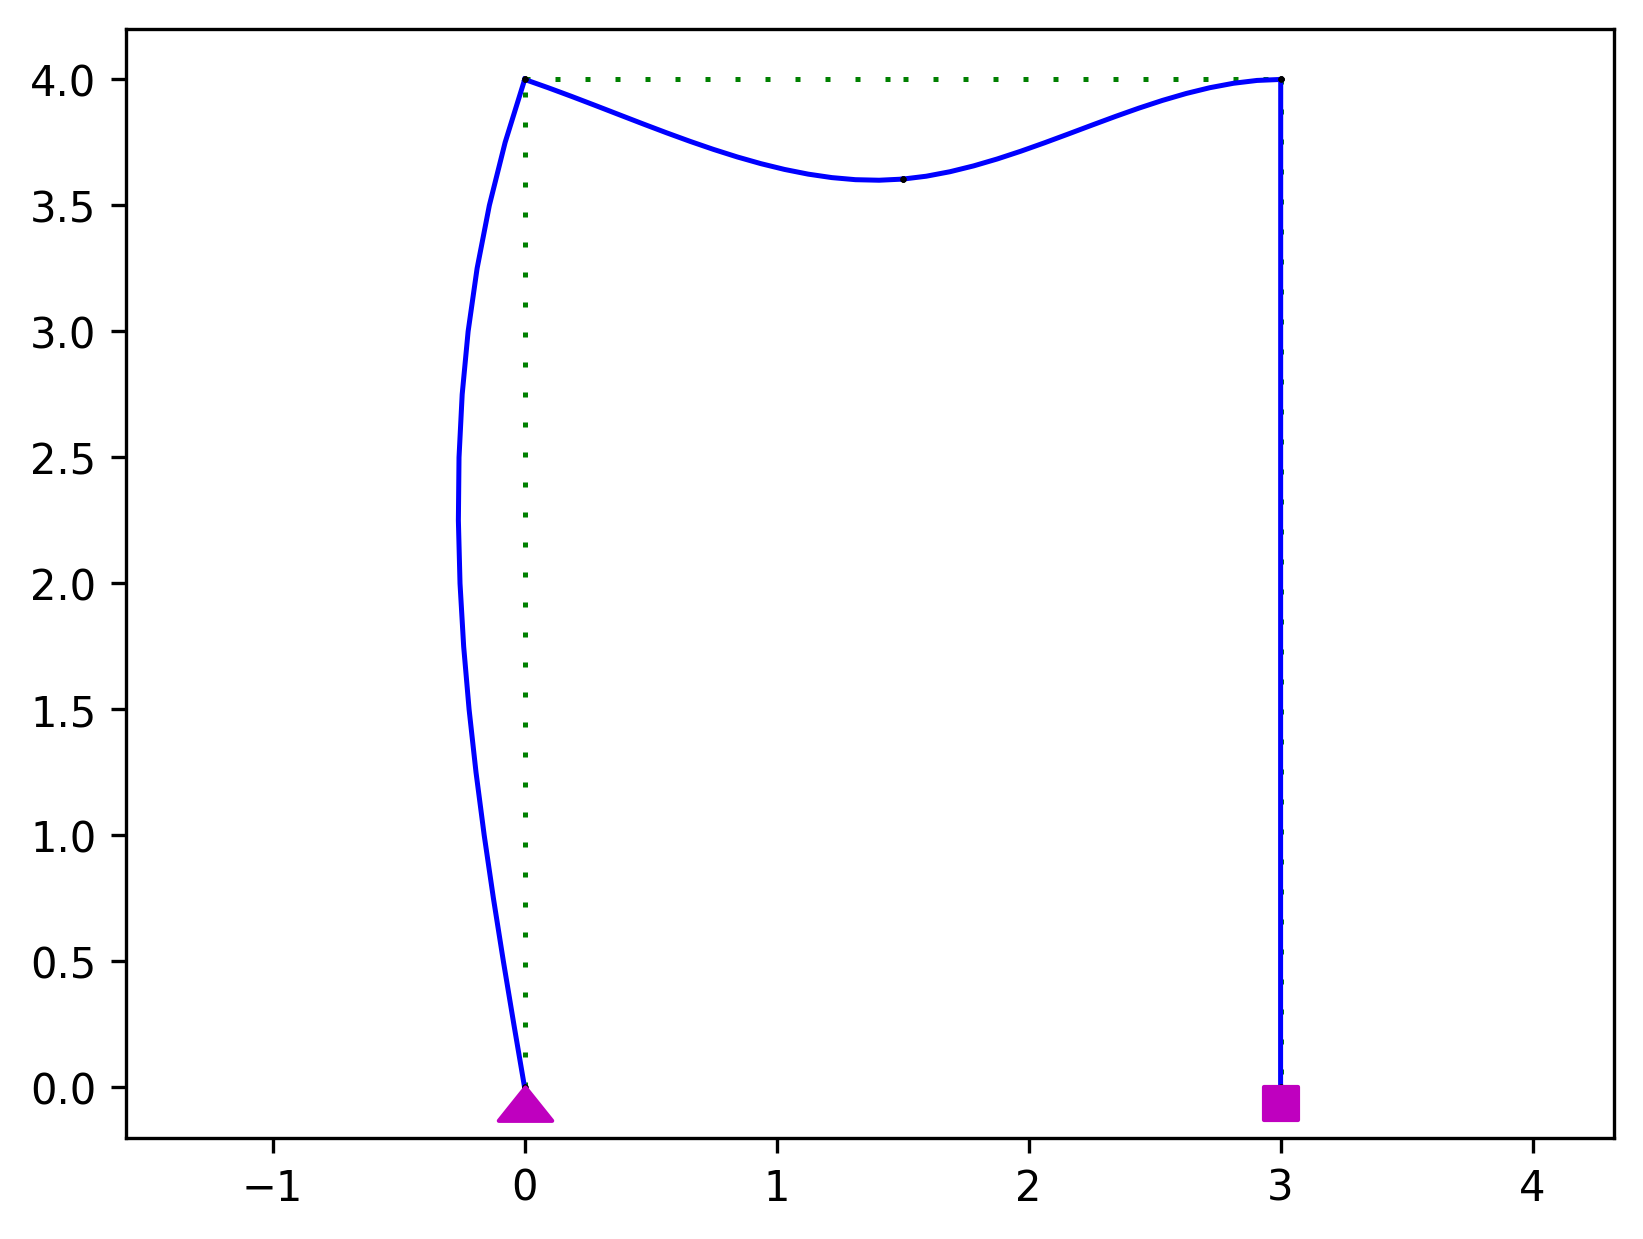
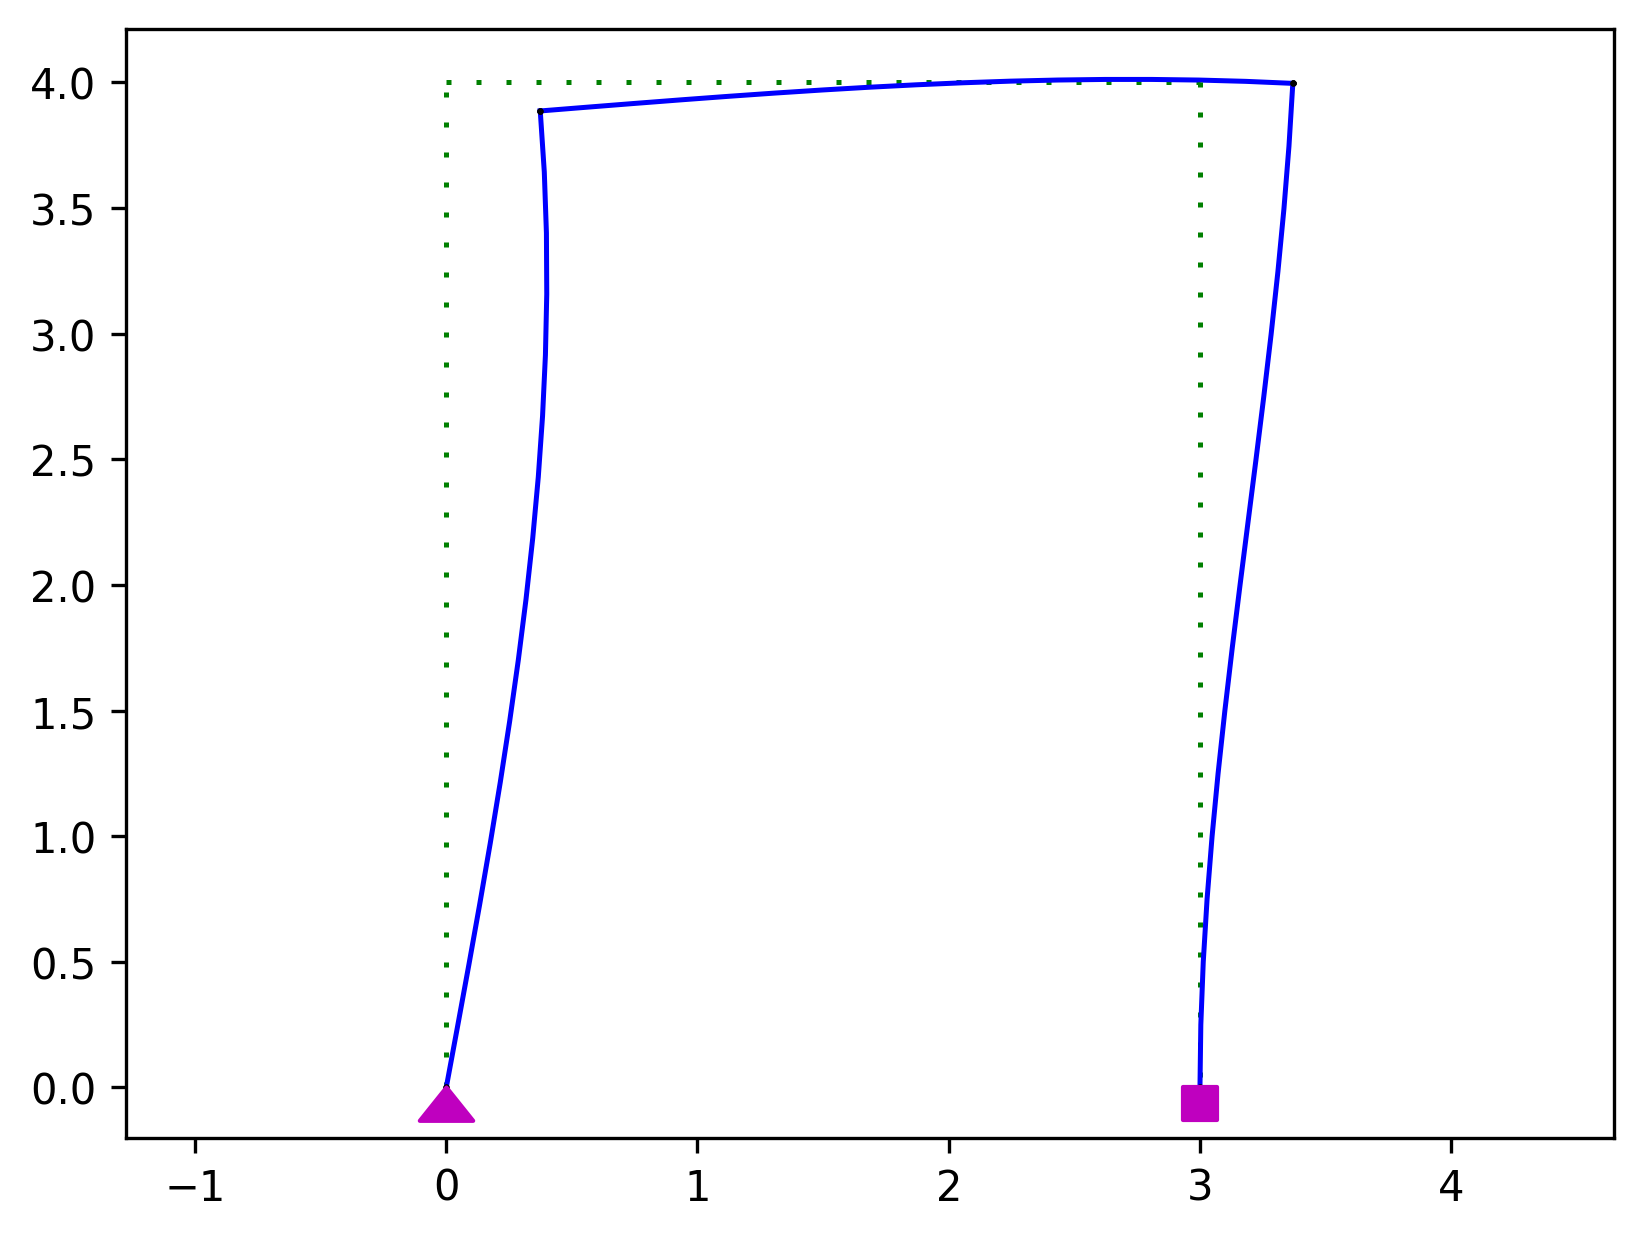
feat: New data

diff --git a/osp/Structures/rama.py b/osp/Structures/rama.py
@@ -16,8 +16,8 @@ A = b * d
 I_z = (b * d ** 3) / 12
 E = 30.0e6
 
-P_1 = 150
-P_2 = -80
+P_1 = 25
+P_2 = -500
 # endregion
 
 # region Węzły
@@ -72,7 +72,7 @@ ops.probabilityTransformation('Nataf', '-print', 0)
 
 # region Obliczenia i wyniki
 nFail = 0
-nTrials = 10000
+nTrials = 1000000
 u_sims = np.zeros(nTrials)
 
 calculate(nTrials, 2, 1, u_sims)
